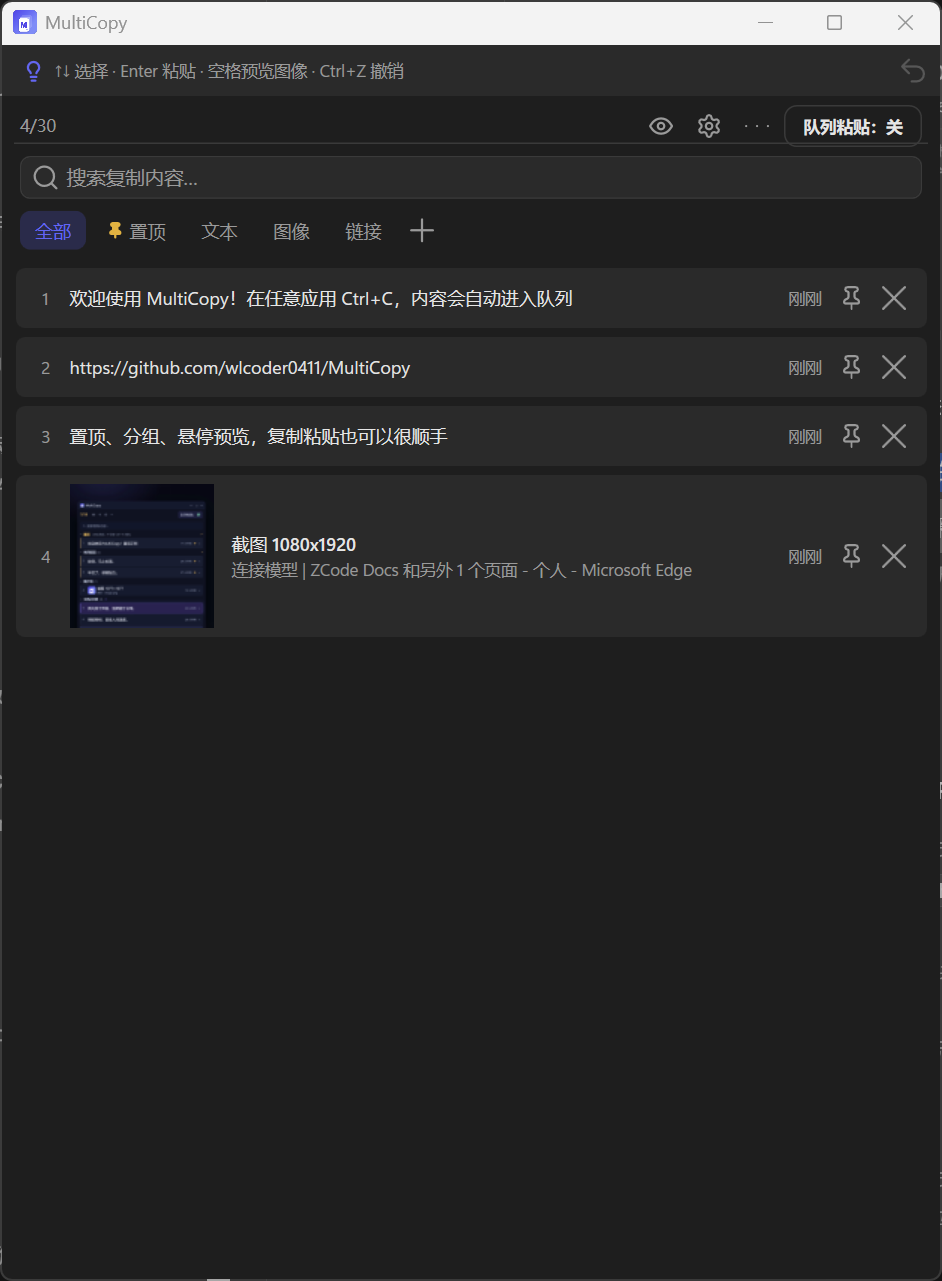
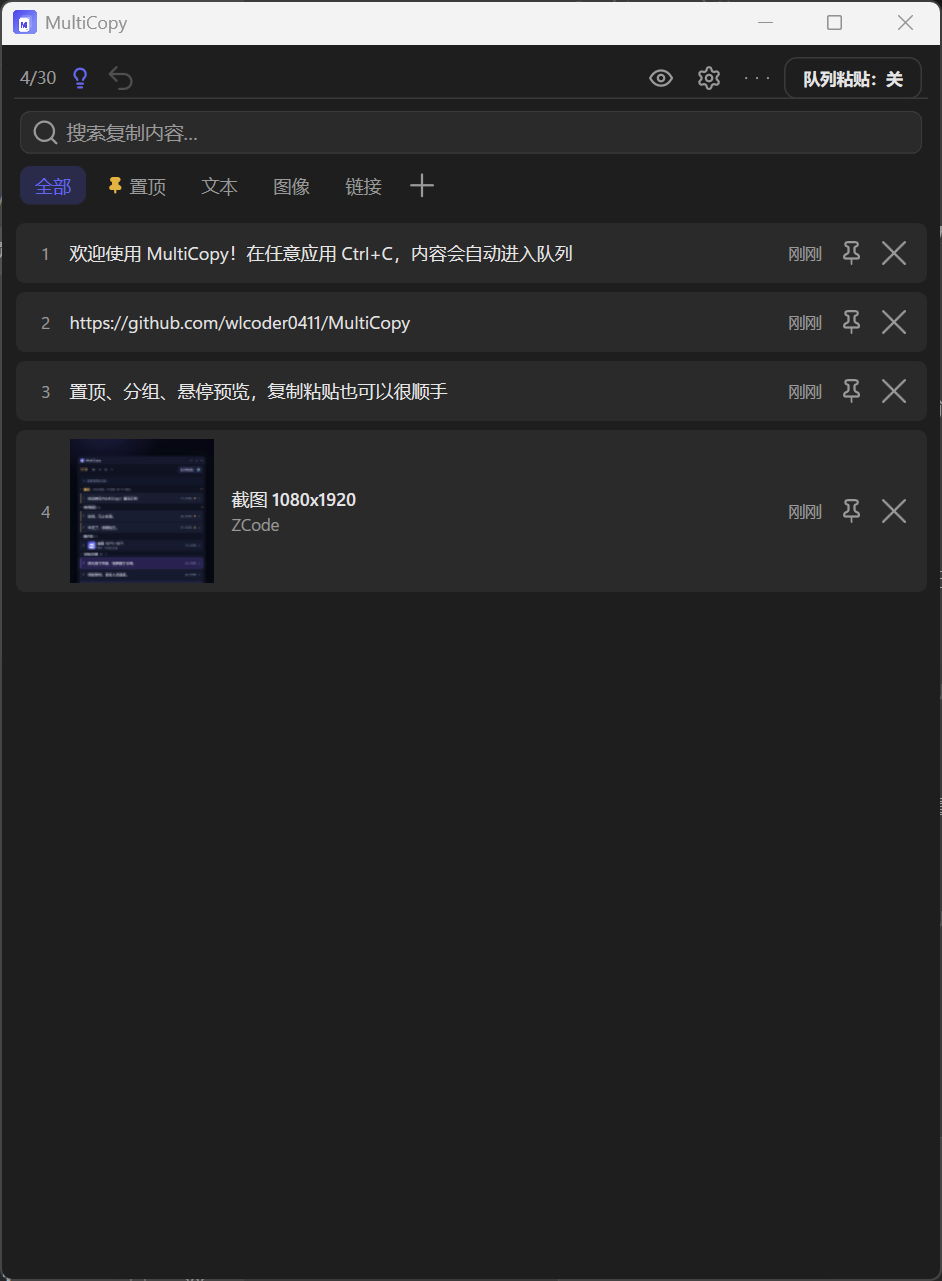
feat: 提示入口改为工具栏灯泡按钮
- 移除顶部整条操作提示栏，改为「n/30」右侧的灯泡按钮：点击弹出当前
  操作提示（含空格预览），撤销按钮紧邻其右，不再占用额外横向空间
- 浮层关闭路径：再点灯泡（切换）/ 点窗口其它位置 / Esc（窗口有焦点时）
  / 10 秒自动关闭 / 窗口隐藏到托盘；主窗口为 WS_EX_NOACTIVATE 时
  Popup.StaysOpen=False 的外部点击检测不可靠，故改用自管理关闭
- 弹层内保留「查看全部快捷键」入口，打开完整说明对话框
- README 同步说明并更新全部截图（新工具栏布局、悬停预览、分组/监控）

diff --git a/src/MultiCopy/MainWindow.xaml b/src/MultiCopy/MainWindow.xaml
@@ -360,53 +360,71 @@
             <RowDefinition Height="Auto" />
             <RowDefinition Height="Auto" />
             <RowDefinition Height="Auto" />
-            <RowDefinition Height="Auto" />
             <RowDefinition Height="*" />
         </Grid.RowDefinitions>
 
-        <!-- 顶部操作提示：灯泡图标标识使用说明入口 + 单行动态提示 + 撤销按钮。
-             整条可点击打开快捷键说明（点在按钮上不触发，见 Help_Click）。
-             单行 + 省略号：避免提示文案换行撑高顶部；完整内容见帮助对话框。 -->
-        <Border Grid.Row="0" Background="{DynamicResource CardBackgroundBrush}" Padding="10,5,6,5"
-                Cursor="Hand" ToolTip="点击查看全部快捷键与使用说明"
-                MouseLeftButtonDown="Help_Click">
-            <DockPanel>
-                <Button DockPanel.Dock="Right" Style="{StaticResource GhostButton}" Padding="4"
-                        Margin="6,0,0,0" VerticalAlignment="Center"
+        <!-- 工具栏 -->
+        <DockPanel Grid.Row="0" Margin="12,8,12,6">
+            <!-- 左侧：容量指示 + 操作提示灯泡（点击弹出当前提示）+ 撤销 -->
+            <StackPanel DockPanel.Dock="Left" Orientation="Horizontal" VerticalAlignment="Center">
+                <!-- 容量指示：达到上限时转为警示色 -->
+                <TextBlock VerticalAlignment="Center"
+                           FontSize="{StaticResource FontSizeCaption}"
+                           Text="{Binding CapacityText}">
+                    <TextBlock.Style>
+                        <Style TargetType="TextBlock">
+                            <Setter Property="Foreground" Value="{DynamicResource ForegroundDimBrush}" />
+                            <Style.Triggers>
+                                <DataTrigger Binding="{Binding IsCapacityWarning}" Value="True">
+                                    <Setter Property="Foreground" Value="{DynamicResource PinBrush}" />
+                                </DataTrigger>
+                            </Style.Triggers>
+                        </Style>
+                    </TextBlock.Style>
+                </TextBlock>
+
+                <!-- 灯泡：点击弹出当前状态的操作提示（含空格预览），弹层内可打开完整说明 -->
+                <Button x:Name="HintButton" Style="{StaticResource GhostButton}" Padding="5"
+                        Margin="4,0,0,0" ToolTip="操作提示"
+                        Click="Hint_Click">
+                    <Path Style="{StaticResource IconStyle}" Data="{StaticResource IconBulb}"
+                          Width="14" Height="14" Stroke="{DynamicResource AccentBrush}" />
+                </Button>
+
+                <Button Style="{StaticResource GhostButton}" Padding="5"
+                        Margin="2,0,0,0" VerticalAlignment="Center"
                         ToolTip="撤销上一步（Ctrl+Z）"
                         IsEnabled="{Binding CanUndo}"
                         Command="{Binding UndoLastRemovalCommand}">
                     <Path Style="{StaticResource IconStyle}" Data="{StaticResource IconUndo}"/>
                 </Button>
-                <Path DockPanel.Dock="Left" Style="{StaticResource IconStyle}"
-                      Data="{StaticResource IconBulb}" Width="14" Height="14"
-                      Stroke="{DynamicResource AccentBrush}"
-                      Margin="4,1,7,0" VerticalAlignment="Center" />
-                <TextBlock FontSize="{StaticResource FontSizeCaption}"
-                           Foreground="{DynamicResource ForegroundDimBrush}"
-                           TextTrimming="CharacterEllipsis" TextWrapping="NoWrap"
-                           VerticalAlignment="Center"
-                           Text="{Binding OperationHint}" />
-            </DockPanel>
-        </Border>
 
-        <!-- 工具栏 -->
-        <DockPanel Grid.Row="1" Margin="12,6,12,4">
-            <!-- 容量指示：达到上限时转为警示色 -->
-            <TextBlock DockPanel.Dock="Left" VerticalAlignment="Center"
-                       FontSize="{StaticResource FontSizeCaption}"
-                       Text="{Binding CapacityText}">
-                <TextBlock.Style>
-                    <Style TargetType="TextBlock">
-                        <Setter Property="Foreground" Value="{DynamicResource ForegroundDimBrush}" />
-                        <Style.Triggers>
-                            <DataTrigger Binding="{Binding IsCapacityWarning}" Value="True">
-                                <Setter Property="Foreground" Value="{DynamicResource PinBrush}" />
-                            </DataTrigger>
-                        </Style.Triggers>
-                    </Style>
-                </TextBlock.Style>
-            </TextBlock>
+                <!-- 提示浮层：StaysOpen=True + 自管理关闭（主窗口是 WS_EX_NOACTIVATE，
+                     StaysOpen=False 的外部点击检测不可靠）。关闭路径：再点灯泡 / 点窗口其它位置 /
+                     Esc / 10 秒自动 / 窗口隐藏。 -->
+                <Popup x:Name="HintPopup" PlacementTarget="{Binding ElementName=HintButton}"
+                       Placement="Bottom" VerticalOffset="6" HorizontalOffset="-8"
+                       StaysOpen="True" AllowsTransparency="True" PopupAnimation="Fade"
+                       Closed="HintPopup_Closed">
+                    <Border Background="{DynamicResource CardBackgroundBrush}"
+                            BorderBrush="{DynamicResource BorderBrush}" BorderThickness="1"
+                            CornerRadius="8" Padding="12,9" MaxWidth="330">
+                        <StackPanel>
+                            <TextBlock Text="{Binding OperationHint}" TextWrapping="Wrap" LineHeight="19"
+                                       FontSize="{StaticResource FontSizeCaption}"
+                                       Foreground="{DynamicResource ForegroundBrush}" />
+                            <Button Style="{StaticResource GhostButton}" Padding="0" Margin="0,7,0,0"
+                                    HorizontalAlignment="Left"
+                                    ToolTip="打开快捷键与使用说明"
+                                    Click="OpenHelp_Click">
+                                <TextBlock Text="查看全部快捷键 ›"
+                                           FontSize="{StaticResource FontSizeCaption}"
+                                           Foreground="{DynamicResource AccentBrush}" />
+                            </Button>
+                        </StackPanel>
+                    </Border>
+                </Popup>
+            </StackPanel>
             <StackPanel DockPanel.Dock="Right" Orientation="Horizontal" HorizontalAlignment="Right" VerticalAlignment="Center">
                 <!-- 监控开关（眼睛图标，开=睁眼，关=闭眼） -->
                 <ToggleButton Style="{StaticResource GhostToggleButton}" ToolTip="监控剪贴板开关"
@@ -452,11 +470,11 @@
             </StackPanel>
         </DockPanel>
 
-        <Separator Grid.Row="1" VerticalAlignment="Bottom"
+        <Separator Grid.Row="0" VerticalAlignment="Bottom"
                    Background="{DynamicResource BorderBrush}" Margin="0,2" />
 
         <!-- 搜索框 -->
-        <Border Grid.Row="2" Margin="12,2,12,6" Style="{StaticResource SearchBorder}">
+        <Border Grid.Row="1" Margin="12,2,12,6" Style="{StaticResource SearchBorder}">
             <Grid>
                 <Grid.ColumnDefinitions>
                     <ColumnDefinition Width="Auto" />
@@ -483,7 +501,7 @@
 
         <!-- 标签栏：全部 / 置顶 / 各分组 / 类型筛选 + 新建分组；
              溢出时横向滚动（滚动条隐藏，滚轮横滚，见 TabScroll_PreviewMouseWheel） -->
-        <ScrollViewer Grid.Row="3" x:Name="TabScroll"
+        <ScrollViewer Grid.Row="2" x:Name="TabScroll"
                       Margin="12,2,12,4"
                       HorizontalScrollBarVisibility="Hidden"
                       VerticalScrollBarVisibility="Disabled"
@@ -505,7 +523,7 @@
         </ScrollViewer>
 
         <!-- 列表区 -->
-        <Grid Grid.Row="4">
+        <Grid Grid.Row="3">
             <Grid.RowDefinitions>
                 <RowDefinition Height="Auto" />
                 <RowDefinition Height="*" />

diff --git a/src/MultiCopy/MainWindow.xaml.cs b/src/MultiCopy/MainWindow.xaml.cs
@@ -51,6 +51,8 @@ public partial class MainWindow : Window
         StateChanged += MainWindow_StateChanged;
         // Esc 键清空搜索框
         PreviewKeyDown += MainWindow_PreviewKeyDown;
+        // 点击窗口其它位置时关闭提示浮层
+        PreviewMouseDown += MainWindow_PreviewMouseDown;
         // 窗口失活（用户切到其他窗口）时恢复 NOACTIVATE 并更新目标窗口。
         // 解决 SearchBox_LostFocus 在窗口失活时不触发的问题：调出 MultiCopy 后移除了 NOACTIVATE，
         // 若用户切换到其他窗口而 LostFocus 未触发，NOACTIVATE 不会恢复，点击列表项时 MultiCopy
@@ -89,6 +91,7 @@ public partial class MainWindow : Window
                     ApplyNoActivate();
                 }
                 CloseImagePreview(); // 预览窗不独立存活，随主窗口隐藏一并关闭
+                HintPopup.IsOpen = false;
                 SaveWindowState();
             }
             _targetHwndBeforeSearch = IntPtr.Zero;
@@ -99,10 +102,14 @@ public partial class MainWindow : Window
     {
         if (_vm == null) return;
 
-        // Esc：先关预览，再清空搜索，最后隐藏窗口
+        // Esc：先关提示浮层 / 预览窗，再清空搜索，最后隐藏窗口
         if (e.Key == Key.Escape)
         {
-            if (_imagePreview != null)
+            if (HintPopup.IsOpen)
+            {
+                HintPopup.IsOpen = false;
+            }
+            else if (_imagePreview != null)
             {
                 CloseImagePreview();
             }
@@ -250,15 +257,52 @@ public partial class MainWindow : Window
     }
 
     // ---------- 快捷键说明 ----------
-    private void Help_Click(object sender, MouseButtonEventArgs e)
+    // 提示浮层自管理关闭：主窗口是 WS_EX_NOACTIVATE，Popup.StaysOpen=False 依赖的
+    // 外部点击检测在该窗口样式下不可靠（点击外部应用时不会关闭），故用 StaysOpen=True
+    // 并显式处理：再点灯泡、点窗口其它位置、Esc、10 秒自动、窗口隐藏。
+    private DispatcherTimer? _hintAutoCloseTimer;
+
+    /// <summary>灯泡按钮：切换操作提示浮层的显示。</summary>
+    private void Hint_Click(object sender, RoutedEventArgs e)
     {
-        // 底部栏内嵌了撤销按钮，点按钮时不要同时弹出说明
-        if (e.OriginalSource is DependencyObject d && FindAncestor<Button>(d) != null) return;
-        e.Handled = true;
-        HelpDialog.Open(this);
+        if (HintPopup.IsOpen)
+        {
+            HintPopup.IsOpen = false;
+            return;
+        }
+        HintPopup.IsOpen = true;
+        _hintAutoCloseTimer ??= CreateHintAutoCloseTimer();
+        _hintAutoCloseTimer.Stop();
+        _hintAutoCloseTimer.Start();
     }
 
-    private void OpenHelp_Click(object sender, RoutedEventArgs e) => HelpDialog.Open(this);
+    private void HintPopup_Closed(object? sender, EventArgs e) => _hintAutoCloseTimer?.Stop();
+
+    /// <summary>提示浮层自动关闭（避免一直遮挡，用户也可点灯泡或 Esc 立即关闭）。</summary>
+    private DispatcherTimer CreateHintAutoCloseTimer()
+    {
+        var timer = new DispatcherTimer { Interval = TimeSpan.FromSeconds(10) };
+        timer.Tick += (_, _) =>
+        {
+            timer.Stop();
+            HintPopup.IsOpen = false;
+        };
+        return timer;
+    }
+
+    /// <summary>点击窗口内其它位置时关闭提示浮层（灯泡自身交给 Click 切换）。</summary>
+    private void MainWindow_PreviewMouseDown(object sender, MouseButtonEventArgs e)
+    {
+        if (!HintPopup.IsOpen) return;
+        if (e.OriginalSource is DependencyObject d && ReferenceEquals(FindAncestor<Button>(d), HintButton)) return;
+        HintPopup.IsOpen = false;
+    }
+
+    private void OpenHelp_Click(object sender, RoutedEventArgs e)
+    {
+        HintPopup.IsOpen = false;
+        HelpDialog.Open(this);
+    }
 
     // ---------- 设置：点击齿轮按钮弹出设置对话框 ----------
     private void Settings_Click(object sender, RoutedEventArgs e)
